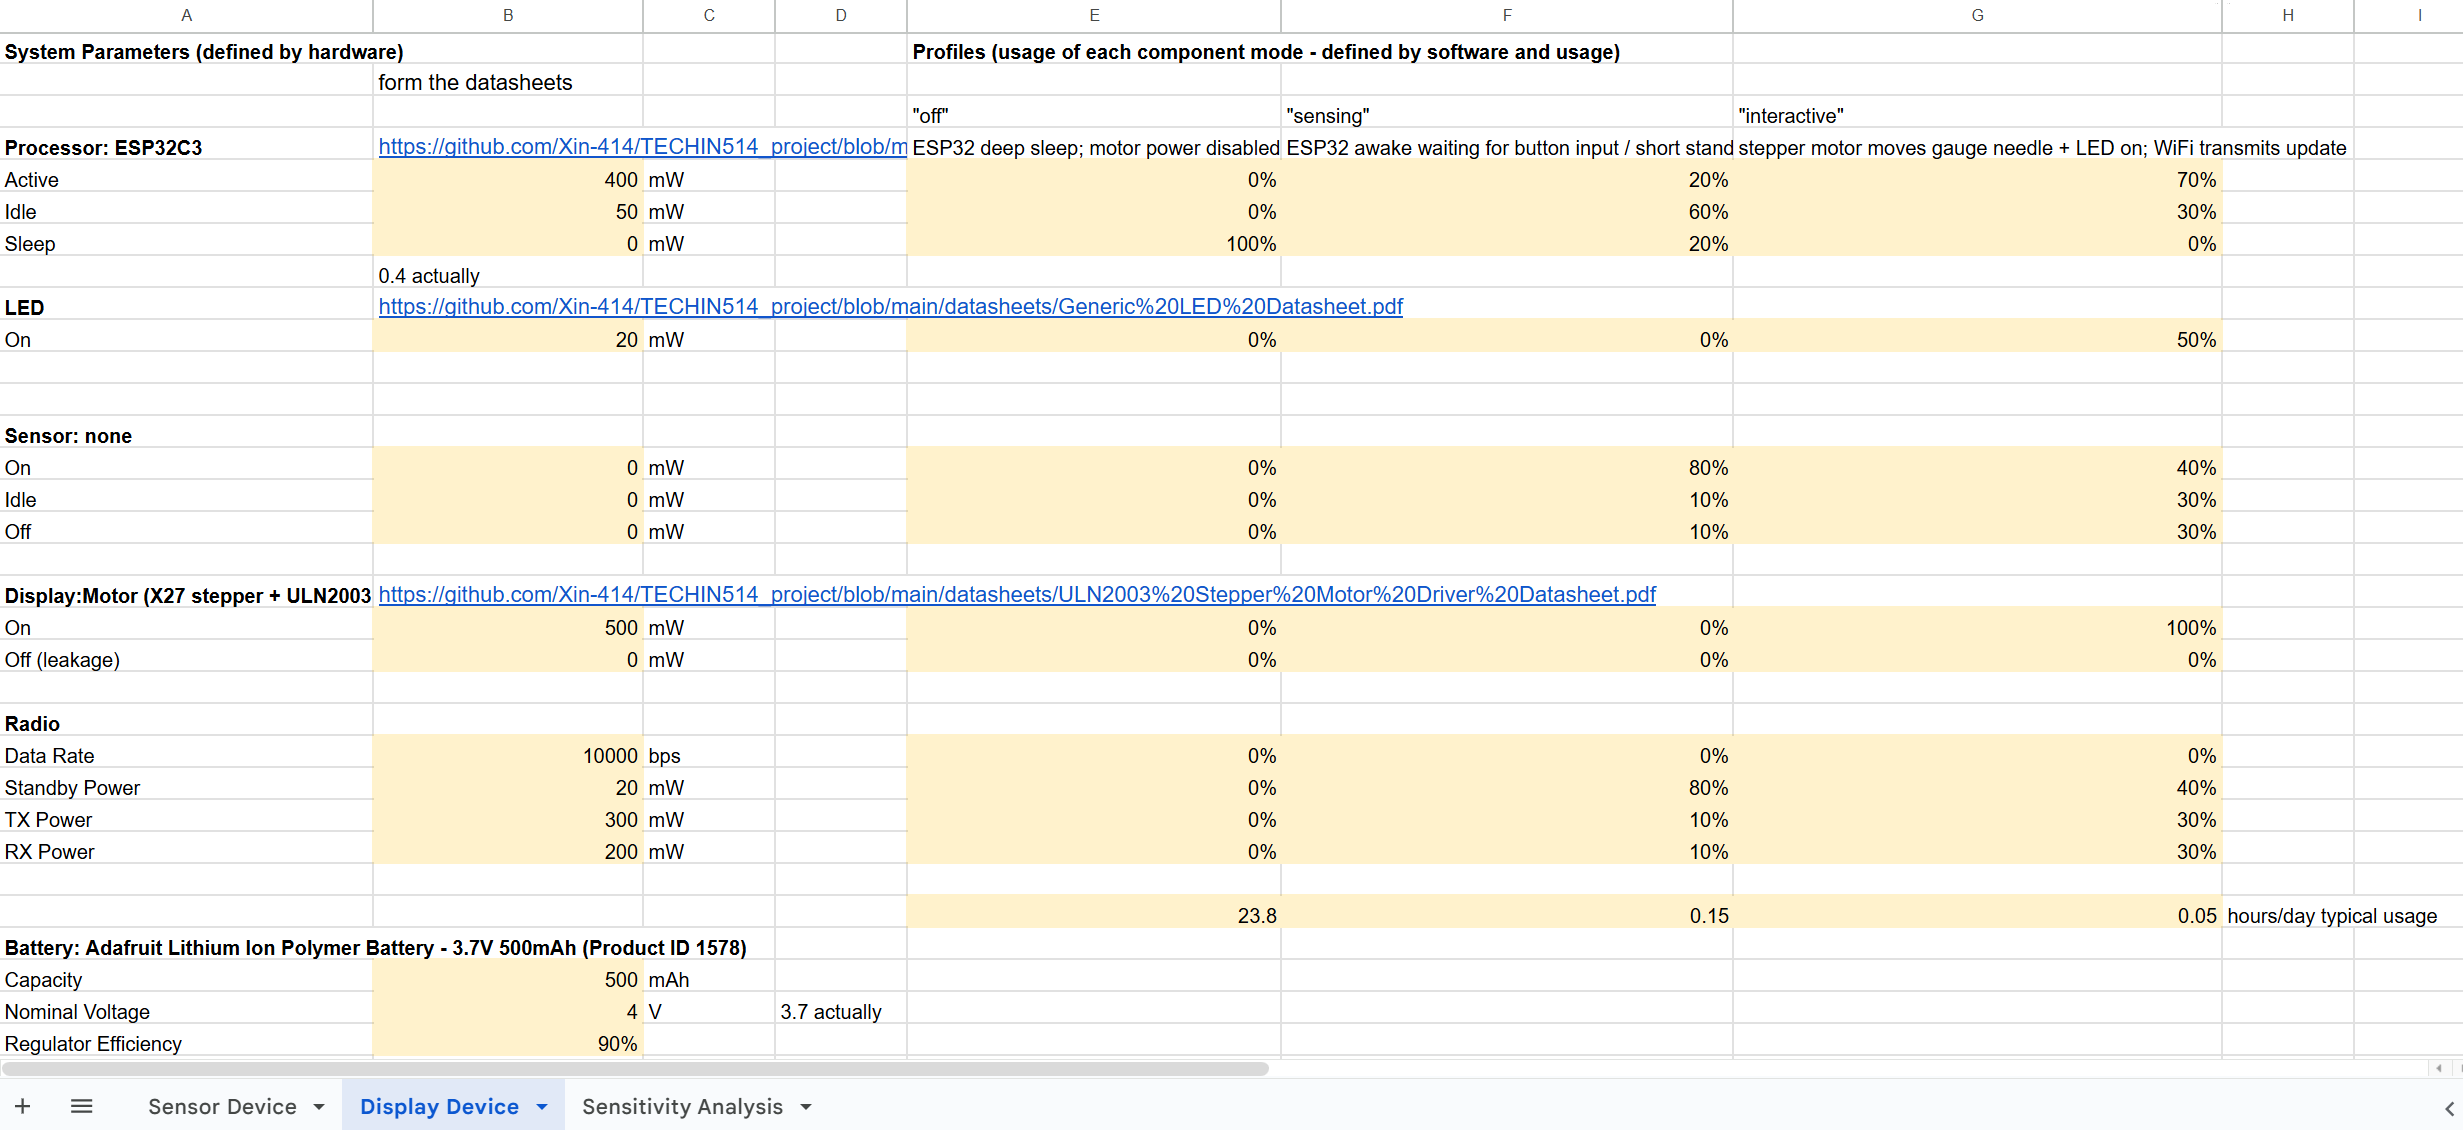
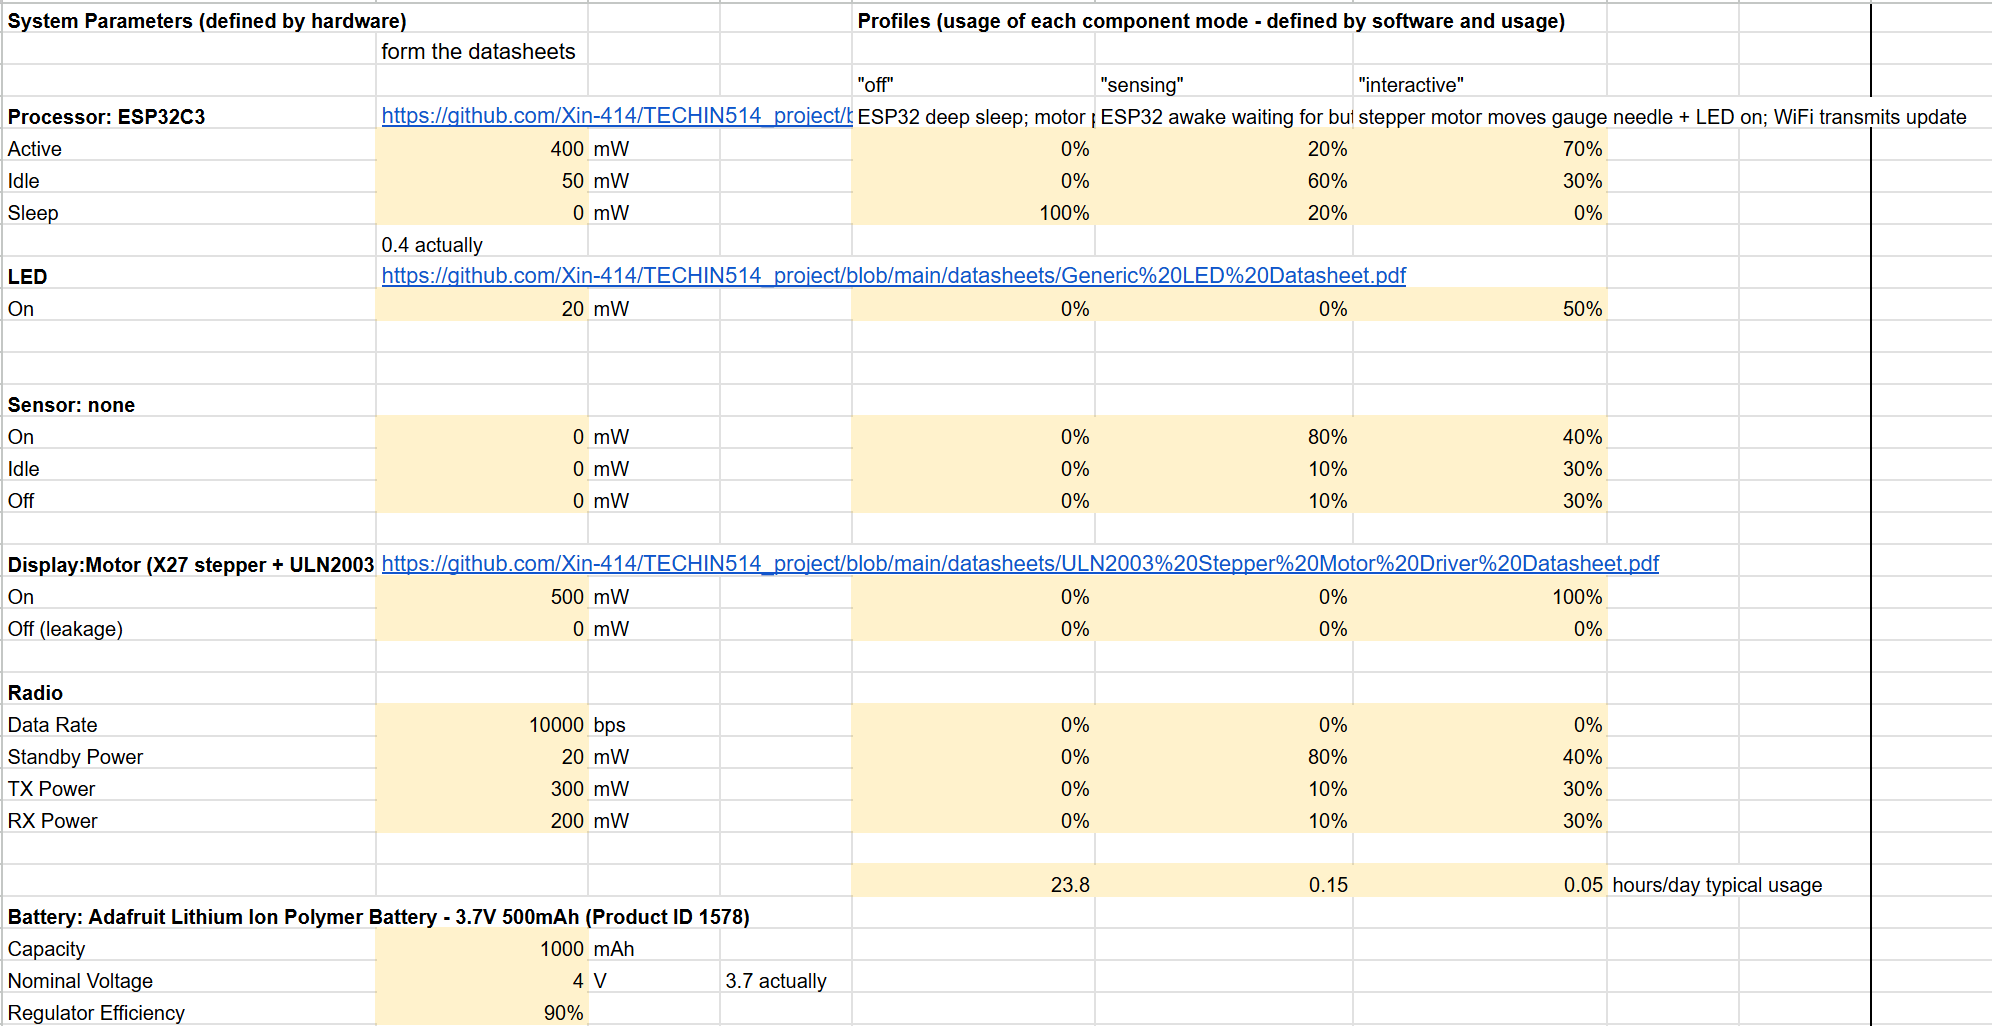
readme update

diff --git a/README.md b/README.md
@@ -103,7 +103,7 @@ Demo video: https://drive.google.com/file/d/1uZkeXHpC4BiWEvxUYPUGvsP9ljvaZRCp/vi
 
 ---
 
-# Battery Considerations
+## Battery Considerations
 
 The display device is powered by a **3.7V 1000mAh LiPo battery**.
 
@@ -121,14 +121,14 @@ Google Sheets (view-only):
 https://docs.google.com/spreadsheets/d/10LHwdyrkDoTDUunTCcTbiJU-1OUqTOgCYg1e28etRiU/edit?usp=sharing
 
 ### Screenshots
+- Display Device Power Model  
+  ![display_device_power.png](images/display_device_power.png)
 - Sensor Device Power Model  
   ![sensor_device_power](images/sensor_device_power.png)
 
-- Display Device Power Model  
-  ![display_device_power.png](images/display_device_power.png)
 ---
 
-# Budget Summary
+## Budget Summary
 
 | Component | Quantity | Cost |
 |-----------|----------|------|
@@ -142,7 +142,7 @@ Total project cost is approximately **$40–50** depending on sourcing and addit
 
 ---
 
-# Future Work
+## Future Work
 
 Possible future improvements include:
 
